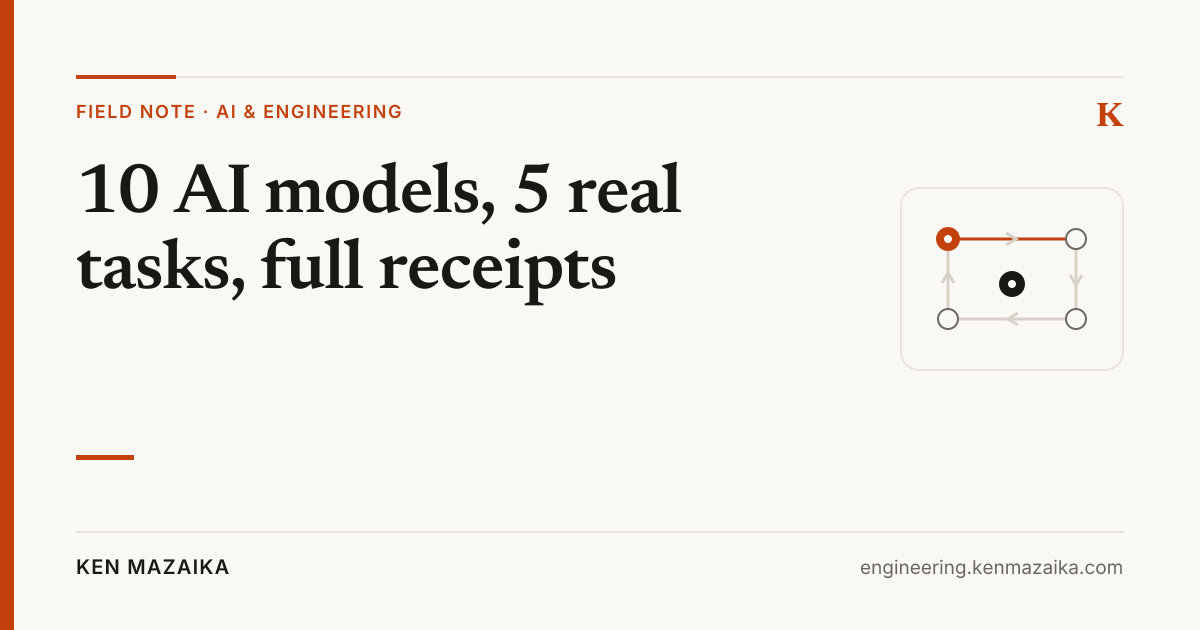
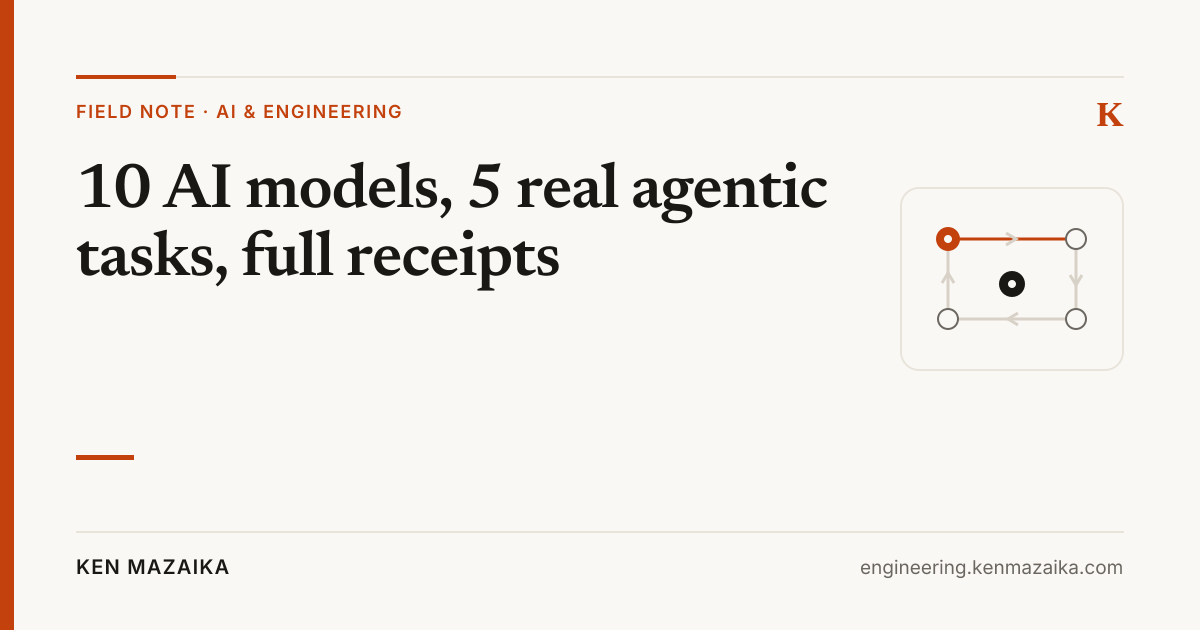
publish: revise model battery post per review (Hermes framing, group summary, vision gallery)

Changed region(s): [[0.0617, 0.2413, 0.7092, 0.4825]]

diff --git a/src/content/blog/i-ran-ten-ai-models-on-my-real-work.md b/src/content/blog/i-ran-ten-ai-models-on-my-real-work.md
@@ -1,7 +1,7 @@
 ---
-title: "I Ran Ten AI Models on My Real Work. Most of Them Were a Waste of Time."
-description: "Five real tasks, identical prompts, full receipts — and the models I'd actually pay for."
-socialTitle: '10 AI models, 5 real tasks, full receipts'
+title: "I Ran Ten AI Models on Real Agentic Workflows in Hermes"
+description: "Five real agentic tasks, identical prompts, full receipts — and the models I'd actually pay for."
+socialTitle: '10 AI models, 5 real agentic tasks, full receipts'
 ogCategory: 'Field Note · AI & Engineering'
 pubDate: 'Aug 19, 2026'
 ---
@@ -10,23 +10,23 @@ pubDate: 'Aug 19, 2026'
 
 ***
 
-There are a lot of benchmarks for AI models. They all ask the same kind of questions: how does it do tool calls, how does it do long context, how does it do *this*, how does it do *that*.
+I run most of my actual work through Hermes, the agent platform that sits between me and the models — and the models underneath it change constantly. There are a lot of benchmarks for them, and they all ask the same kind of questions: how does it do tool calls, how does it do long context, how does it do *this*, how does it do *that*.
 
-I wanted to know something different: **how do these things actually feel?**
+I wanted to know something different: **how do these things actually feel inside an agentic workflow?**
 
 That's the way you really learn a model, I think. You can read all the benchmarks you want, but at the end of the day you start playing around with it — and that's when you find out how it behaves. You get a vibe: *oh, sol gives me really thorough output when I'm doing design stuff. grok feels sharp. deepseek gets things done for cheap.* But it's all vibes. "I've run some stuff and I have a feeling" is not an answer.
 
-So I made the vibe check systematic. I built a test battery: five tasks shaped like work I actually do, run against ten models, identical prompts, out of the box, no per-model tuning. If you tune each model to its strengths, you're not comparing models anymore — you're just grading your own tweaks. Every output was saved side by side, and the raw results ship alongside this post as a 101-page PDF with every prompt, every artifact, and every bill.
+So I made the vibe check systematic. I built a test battery: five tasks shaped like work I actually do, run against ten models, identical prompts, out of the box, no per-model tuning. If you tune each model to its strengths, you're not comparing models anymore — you're just grading your own tweaks. Every output was saved side by side, and the raw results ship alongside this post as a 101-page PDF with every prompt and every artifact.
 
 This matters right now because model rankings change every week and every vendor is selling something. The question worth answering is the one the benchmarks don't touch: what should you actually run for the work you do every day — and what does it cost when you're done?
 
-The honest headline, up front: **most of them are a waste of time.** Side by side is exactly how you find that out — and it's also how you find out which ones you can't afford to lose.
+The honest headline, up front: **the same prompt produces wildly different behavior — consistently enough to act on.** Side by side is the only way to see it clearly, and it's also how you find out which models you can't afford to lose.
 
 ## The battery
 
 Five tests, in the shape of work I really do (run on 2026-08-17, out of the box):
 
-1. **The weekly workflow** — browse Reddit for a contentious engineering-leadership thread, write a "both sides + my read" blurb, generate a diagram.
+1. **The weekly workflow** — browse Reddit for a contentious engineering-leadership thread, write a "both sides + my read" blurb.
 2. **The PRD** — write a product requirements doc for a real tool I want (a Hermes cost tracker), researching the docs and a real session database, all on a kanban board.
 3. **The build** — implement that tool from your own PRD, against real usage data, with a **correct answer** you can check against.
 4. **The job finder** — build a job-search *skill* from scratch, then execute it live.
@@ -40,25 +40,27 @@ Here's the scoreboard, then the stories behind it.
 | :--------- | :------------------ | :----------------- | :------------ | :--------------- | :------------ | :----------------- | :---------- | :---------- | :--------------- | :--------------- |
 | **Pulse**  | ✓ real thread       | ✗ generic          | ✗ generic     | ✓ real thread    | ✓ real thread | ✓ real thread      | ✗ generic   | ✗ generic   | ✓ real thread    | ✓ real thread    |
 | **PRD**    | ✓ on spec           | ✓ 126 hits         | ✓ ok          | ✓ solid          | ✓ terse       | ✓ deepest          | ✓ 71 hits   | ✓ 46 hits   | ✓ 88 hits        | ✓ 104 hits       |
-| **Build**  | ✓ **$60.49** 6/6    | ✗ $20.29           | ✗ $90.67      | ✓ **$60.49** 6/6 | ✗ $69.06      | ✗ $56.44           | ✗ $45.59    | ✗ $112.26   | ✓ **$60.49** 6/6 | ✓ **$60.49** 6/6 |
-| **Jobs**   | ✓ 23 scored, 3 pass | ✗ 0 viable         | —             | ✗ 0 viable       | —             | ✗ 0 viable         | ✗ 0 viable  | ✗ 0 viable  | ✗ 0 viable       | ✗ 0 viable       |
+| **Build**  | ✓ **$60.49** 6/6    | ✗ $20.29           | ✗ $90.67      | ✓ **$60.49** 6/6 | ✗ $69.06      | ≈ $56.44 — very close | ✗ $45.59 | ✗ $112.26   | ✓ **$60.49** 6/6 | ✓ **$60.49** 6/6 |
+| **Jobs**   | ✓ 23 surfaced, 3 pass | ✗ 8 surfaced, 0 pass | —          | ✗ 6 surfaced, 0 pass | —         | ✗ 7 surfaced, 0 pass | ✗ 6 surfaced, 0 pass | ✗ 6 surfaced, 0 pass | ✗ 5 surfaced, 0 pass | ✗ 6 surfaced, 0 pass |
 | **Vision** | — not run           | ✓ via glm-5v-turbo | — not run     | ✓ saw it         | ✓ iterated 4× | ✓ deepest critique | ✓ saw flaws | ✓ saw flaws | ✓ saw flaws      | ✓ saw flaws      |
 
-*On the build test, ✓ means the app landed every vendor inside the converged band (the PDF scoreboard uses a looser bar — ✓ = 4+ of 6 vendors in band; I'm using the stricter one). Full numbers below.*
+*On the build test, ✓ means the app landed every vendor inside the converged band (the PDF scoreboard uses a looser bar — ✓ = 4+ of 6 vendors in band; I'm using the stricter one). ≈ means very close — within a few dollars, missing only one vendor. Full numbers below.*
 
 ## Test 1 — The weekly workflow: research vs. generic
 
-The task was simple: find a contentious, highly upvoted engineering-leadership thread on Reddit, cover both sides, add "my read," and generate a diagram. The Philip DeFranco move, basically.
+The task was simple: find a contentious, highly upvoted engineering-leadership thread on Reddit, cover both sides, add "my read." The Philip DeFranco move, basically.
 
 The split was immediate: **research vs. generic.**
 
-deepseek found a live r/EngineeringManagers thread — "Hands-off engineering leaders are dooming their teams" — and argued with it specifically, in 3 minutes 13 seconds. mimo found the "personality tax" thread on r/ExperiencedDevs (744 upvotes, 406 comments) — a staff engineer told she "lacks leadership qualities" for using hedging language — and covered both sides of it. terra and sol both found real threads and cited their sources — sol with upvote counts and a date, plus a diagram. kimi and grok found real threads too.
+deepseek found a live r/EngineeringManagers thread — "Hands-off engineering leaders are dooming their teams" — and argued with it specifically, in 3 minutes 13 seconds. mimo found the "personality tax" thread on r/ExperiencedDevs (744 upvotes, 406 comments) — a staff engineer told she "lacks leadership qualities" for using hedging language — and covered both sides of it. terra and sol both found real threads and cited their sources — sol with upvote counts and a date. kimi and grok found real threads too.
 
 The other end of the spectrum: gpt-5.5 wrote "The Hands-On Engineering Manager Debate: Dying Art or Essential Skill?" and luna wrote "Engineering Leadership: The Hands-On vs Hands-Off Dilemma" (5m57s and 4m12s respectively). Competent, complete, and disconnected from the task — they could have been written with the browser closed. glm-4.5 spent 244 seconds on a generic essay of the same species (the one real source it found was appended at the end). glm-4.5-flash took 13 minutes and produced a generic essay of its own.
 
 And the worst behavior: a couple of the generic essays leaned on my own wiki notes instead of the internet — not what I asked for, and looking in places I didn't want them to. It rubbed me the wrong way, honestly.
 
 Same prompt, ten ways: some models went out and found something real, some wrote essays they didn't need the internet for. That gap is the first thing you notice, before any rubric matters.
+
+**The short version, by family:** the gpt line — sol, terra, gpt-5.5, luna — pretty much got everything; sol and terra even converged on the correct cost answer. grok did well at most things — its cost app was within a few dollars of the converged answer, and its vision work was excellent. deepseek was the value story: it converged on the cost test and was the only model to surface usable jobs. mimo was quietly solid — it converged too. And GLM — glm-4.5 and glm-4.5-flash — didn't do well at anything, though its vision SKU (glm-5v-turbo) was the sharpest pair of eyes on the one test that needed them.
 
 ## Test 2 — The PRD: process is table stakes
 
@@ -107,9 +109,7 @@ The full grid, every app against every vendor (✓ = inside the converged band):
 | kimi-k2.6        | $11.18 ✗   | $9.55 ✗       | $5.90 ✓   | $27.76 ✓   | $0.00 ✓             | $14.67 ✓  | $69.06        |
 | glm-4.5-flash    | $47.89 ✗   | $10.78 ✗      | $1.70 ✗   | $5.22 ✗    | $11.54 ✗ (quota as cash) | $13.53 ✓ | $90.67    |
 
-Four of the ten apps landed every vendor inside the converged band: deepseek, mimo, sol, terra — all at $60.49. grok came close ($56.44, missing one vendor because its session filter read a fraction of the usage). kimi overshot ($69.06, reading deepseek and xiaomi above the band). And then the failures, each different: glm-4.5 never priced xai at all ($20.29). gpt-5.5 under-read the metered vendors ($45.59) — its first run, before its units bug was fixed, reported $293,534.88, delivered with the same confidence. luna still estimated ($112.26). glm-4.5-flash was the outlier — its fallback-rate path inflated deepseek and priced quota sessions as if they were cash ($90.67, one vendor in band out of six).
-
-One line, because it's the whole point of the ground-truth check: **every app reported its number with the same confidence** — the one that was off by hundreds of thousands sounded as sure as the ones that nailed it.
+Four of the ten apps landed every vendor inside the converged band: deepseek, mimo, sol, terra — all at $60.49. grok was very close ($56.44 — within a few dollars of the converged answer, missing one vendor because its session filter read a fraction of the usage). kimi overshot ($69.06, reading deepseek and xiaomi above the band). And then the failures, each different: glm-4.5 never priced xai at all ($20.29). gpt-5.5 under-read the metered vendors ($45.59) — its first run, before its units bug was fixed, reported $293,534.88. luna still estimated ($112.26). glm-4.5-flash was the outlier — its fallback-rate path inflated deepseek and priced quota sessions as if they were cash ($90.67, one vendor in band out of six).
 
 One honest correction: this test had a false start. The first "correct answer" was $9.27 — computed with rate cards roughly double the published ones. Once every app's rate table was regenerated from the shared source of truth (including deepseek's 2026-07-31 price change), the converged answer became $60.49 — which is about what I actually spent over those 30 days. **The rate table, not the model, was the variable.** Point any of these apps at the right rates and it produces the right total.
 
@@ -119,9 +119,9 @@ Also worth knowing: the web-portal bills don't exactly match the calculated numb
 
 The task: build a job-search *skill* from scratch, then execute it. The candidate: an engineering manager in Santa Monica with 6+ years of experience. The skill had to find Engineering Manager / Director roles at AI companies, score every role three separate ways (fit, career acceleration, realistic shot), end with Apply / Hold / Skip / Watch, verify each posting live on the employer's own ATS, and never fabricate compensation or dates. No tuning, no coaching — out of the box.
 
-The meta-point first: the deliverable isn't the shortlist, it's the **skill** — the repeatable pipeline. That's the shape of agentic work: not doing a task, but turning it into something that runs forever. The pattern that fell out, with names: **author the skill once with the model that's best at planning — grok or sol — and run it forever with the cheapest model that's good enough — deepseek.** Authoring is the one-time cost. Running is the recurring cost.
+The task was framed as a *skill* from the start — the deliverable was a repeatable pipeline that can run against fresh data, not a one-off shortlist.
 
-The results were a crapshoot — and that's the finding. deepseek scored 23 roles; three passed the filters (Suno in Los Angeles, Anduril, Descript — each verified live on the employer's ATS). Every other model that produced a shortlist scored between five and eight roles — and **zero of them were viable.** Same location and recency criteria applied uniformly to all: LA or remote-US, not stale beyond 45 days.
+The results were a crapshoot — and that's the finding. deepseek surfaced 23 roles; three passed the filters (Suno in Los Angeles, Anduril, Descript — each verified live on the employer's ATS). Every other model that produced a shortlist surfaced between five and eight roles — and **zero passed the same filters.** Same location and recency criteria applied uniformly to all: LA or remote-US, not stale beyond 45 days.
 
 Why did deepseek win? It played the numbers game. It filtered less and handed me raw volume; quantity did the work. When a model is cheap, you can afford to let it spray and then filter yourself. Raw recall beats precision for a daily driver.
 
@@ -133,27 +133,43 @@ The last test runs on pixels. Each model designed a chart from a real figure spe
 
 Designing is one thing. **Seeing is the test.**
 
-grok wrote the deepest critique: *"The 39-point gap is computed correctly and drawn at the right x-span. It is not visible as the story."* And then fixed all three of its own findings. mimo was fast and precise — it caught that its own y-axis mislabeled the measured bar as "perceived." kimi iterated four times, fixing an annotation overlap and a cramped negative label. The OpenAI line genuinely saw its own flaws: gpt-5.5 caught a label collision, terra caught that its 39-point claim was asserted but never *shown* on the chart, sol caught the story inversion — the prediction bar getting more visual weight than the belief-vs-measured comparison — and luna caught a clipped label and a wrong bracket span.
+Everyone with vision actually saw: each model critiqued its own diagram, found real flaws, and shipped a redesign. The interesting part isn't the critique prose — it's the before-and-after, and how different each model's eye turned out to be. The finals below speak for themselves.
 
-Then there was the new entrant. deepseek and glm-4.5 are text-only on zai, so GLM ran its vision model instead — glm-5v-turbo — and it was strikingly pixel-accurate: *"the 39-point gap existed only as text, not as geometry."* Its v2 replaced the symbolic arrow with a vertical 39-unit dimension bracket, drawn to scale and verified pixel by pixel.
+deepseek and glm-4.5 are text-only on zai, so GLM ran its vision model instead — glm-5v-turbo — and it was strikingly pixel-accurate: *"the 39-point gap existed only as text, not as geometry."*
 
-The honest-encoding check mattered: the measured bar is negative, so it must extend left of zero, and the gap must actually be visible. All seven original models got the negative bar right. **The difference was process, not sight.** An independent reviewer ranked the v2 figures blind — best figure: grok. Most honest: mimo.
+An independent reviewer ranked the v2 figures blind — best figure: grok.
 
 ### The finals (v2, all eight)
 
+**mimo — v2**
+
 ![mimo — v2](/figures/v2/mimo-v2.png)
+
+**grok — v2**
 
 ![grok — v2](/figures/v2/grok-v2.png)
 
+**kimi — v2**
+
 ![kimi — v2](/figures/v2/kimi-v2.png)
+
+**gpt-5.5 — v2**
 
 ![gpt-5.5 — v2](/figures/v2/gpt-5.5-v2.png)
 
+**luna — v2**
+
 ![gpt-5.6-luna — v2](/figures/v2/gpt-5.6-luna-v2.png)
+
+**terra — v2**
 
 ![gpt-5.6-terra — v2](/figures/v2/gpt-5.6-terra-v2.png)
 
+**sol — v2**
+
 ![gpt-5.6-sol — v2](/figures/v2/gpt-5.6-sol-v2.png)
+
+**glm-5v-turbo — v2**
 
 ![glm-5v-turbo — v2](/figures/v2/glm-5v-turbo-v2.png)
 
@@ -162,7 +178,7 @@ The before/after pairs are in the PDF, pages 16–19 — these are the after.
 
 ## What I actually learned
 
-**Most of these models are a waste of time — for me, at least.** Side by side is exactly how you find that out, and it's also how you know which ones to keep. It's nice to have a second model in your pocket for the days your rates change or your main provider throttles you.
+**The same prompt, ten ways, produces wildly different behavior — and the differences are consistent enough to act on.** It's nice to have a second model in your pocket for the days your rates change or your main provider throttles you.
 
 The stack, now with evidence behind it:
 
@@ -174,24 +190,13 @@ The stack, now with evidence behind it:
 
 * **The rest are insurance.**
 
-And the meta-lesson: **author with your best model, run with your cheapest.** The battery exists to tell you which model deserves which role in that equation — and the ground-truth check is how you find out which model is which.
 
 One more lesson, for the failures: when a model's behavior surprises you, check the harness before blaming the model. An image mode that passes no image doesn't mean the model is blind. A provider timeout that kills a slow build doesn't mean the model can't build. The failures that turned out to be genuine model bugs — grok's date-format bug in its cost app (easy fix, then it ran fine), the rate-unit mistakes — were easy to diagnose once the harness was ruled out.
 
-## What this test does NOT show
-
-* **52 sessions stayed unpriced in every app** — several models have no published rate cards, so those sessions are honestly marked, not guessed.
-
-* **One job market, one chart type, one cost window.** Your mileage will vary, deliberately.
-
-* **I didn't tune anything.** These are out-of-the-box results. Aggressive per-model tuning would be a different test — and a less fair one.
-
-* **The portal bills aren't the ground truth** — free credits and sliding windows make the wallet a noisy witness. The calculated answer is the reference.
-
 ## The receipts
 
-The full battery is published alongside this post: **[the 101-page PDF (2.1 MB)](/battery-post-raw-data.pdf)** — every prompt, every score, every bill. The exact prompts are all in the PDF — each section here summarizes what was run — so you can re-run the whole battery on your own stack.
+The full battery is published alongside this post: **[the 101-page PDF (2.1 MB)](/battery-post-raw-data.pdf)** — every prompt, every score, every receipt. The exact prompts are all in the PDF — each section here summarizes what was run — so you can re-run the whole battery on your own stack.
 
 I'm not planning a rerun — but the method, prompts and all, is in the PDF if you want to run the battery on your own stack. The rankings will change; the method won't.
 
-The same prompt produces wildly different behavior — research or generic, right or a hundredfold off, with equal confidence. The receipts let you draw your own conclusions.
+The same prompt produces wildly different behavior — research or generic, spot-on or wildly off. The receipts let you draw your own conclusions.
